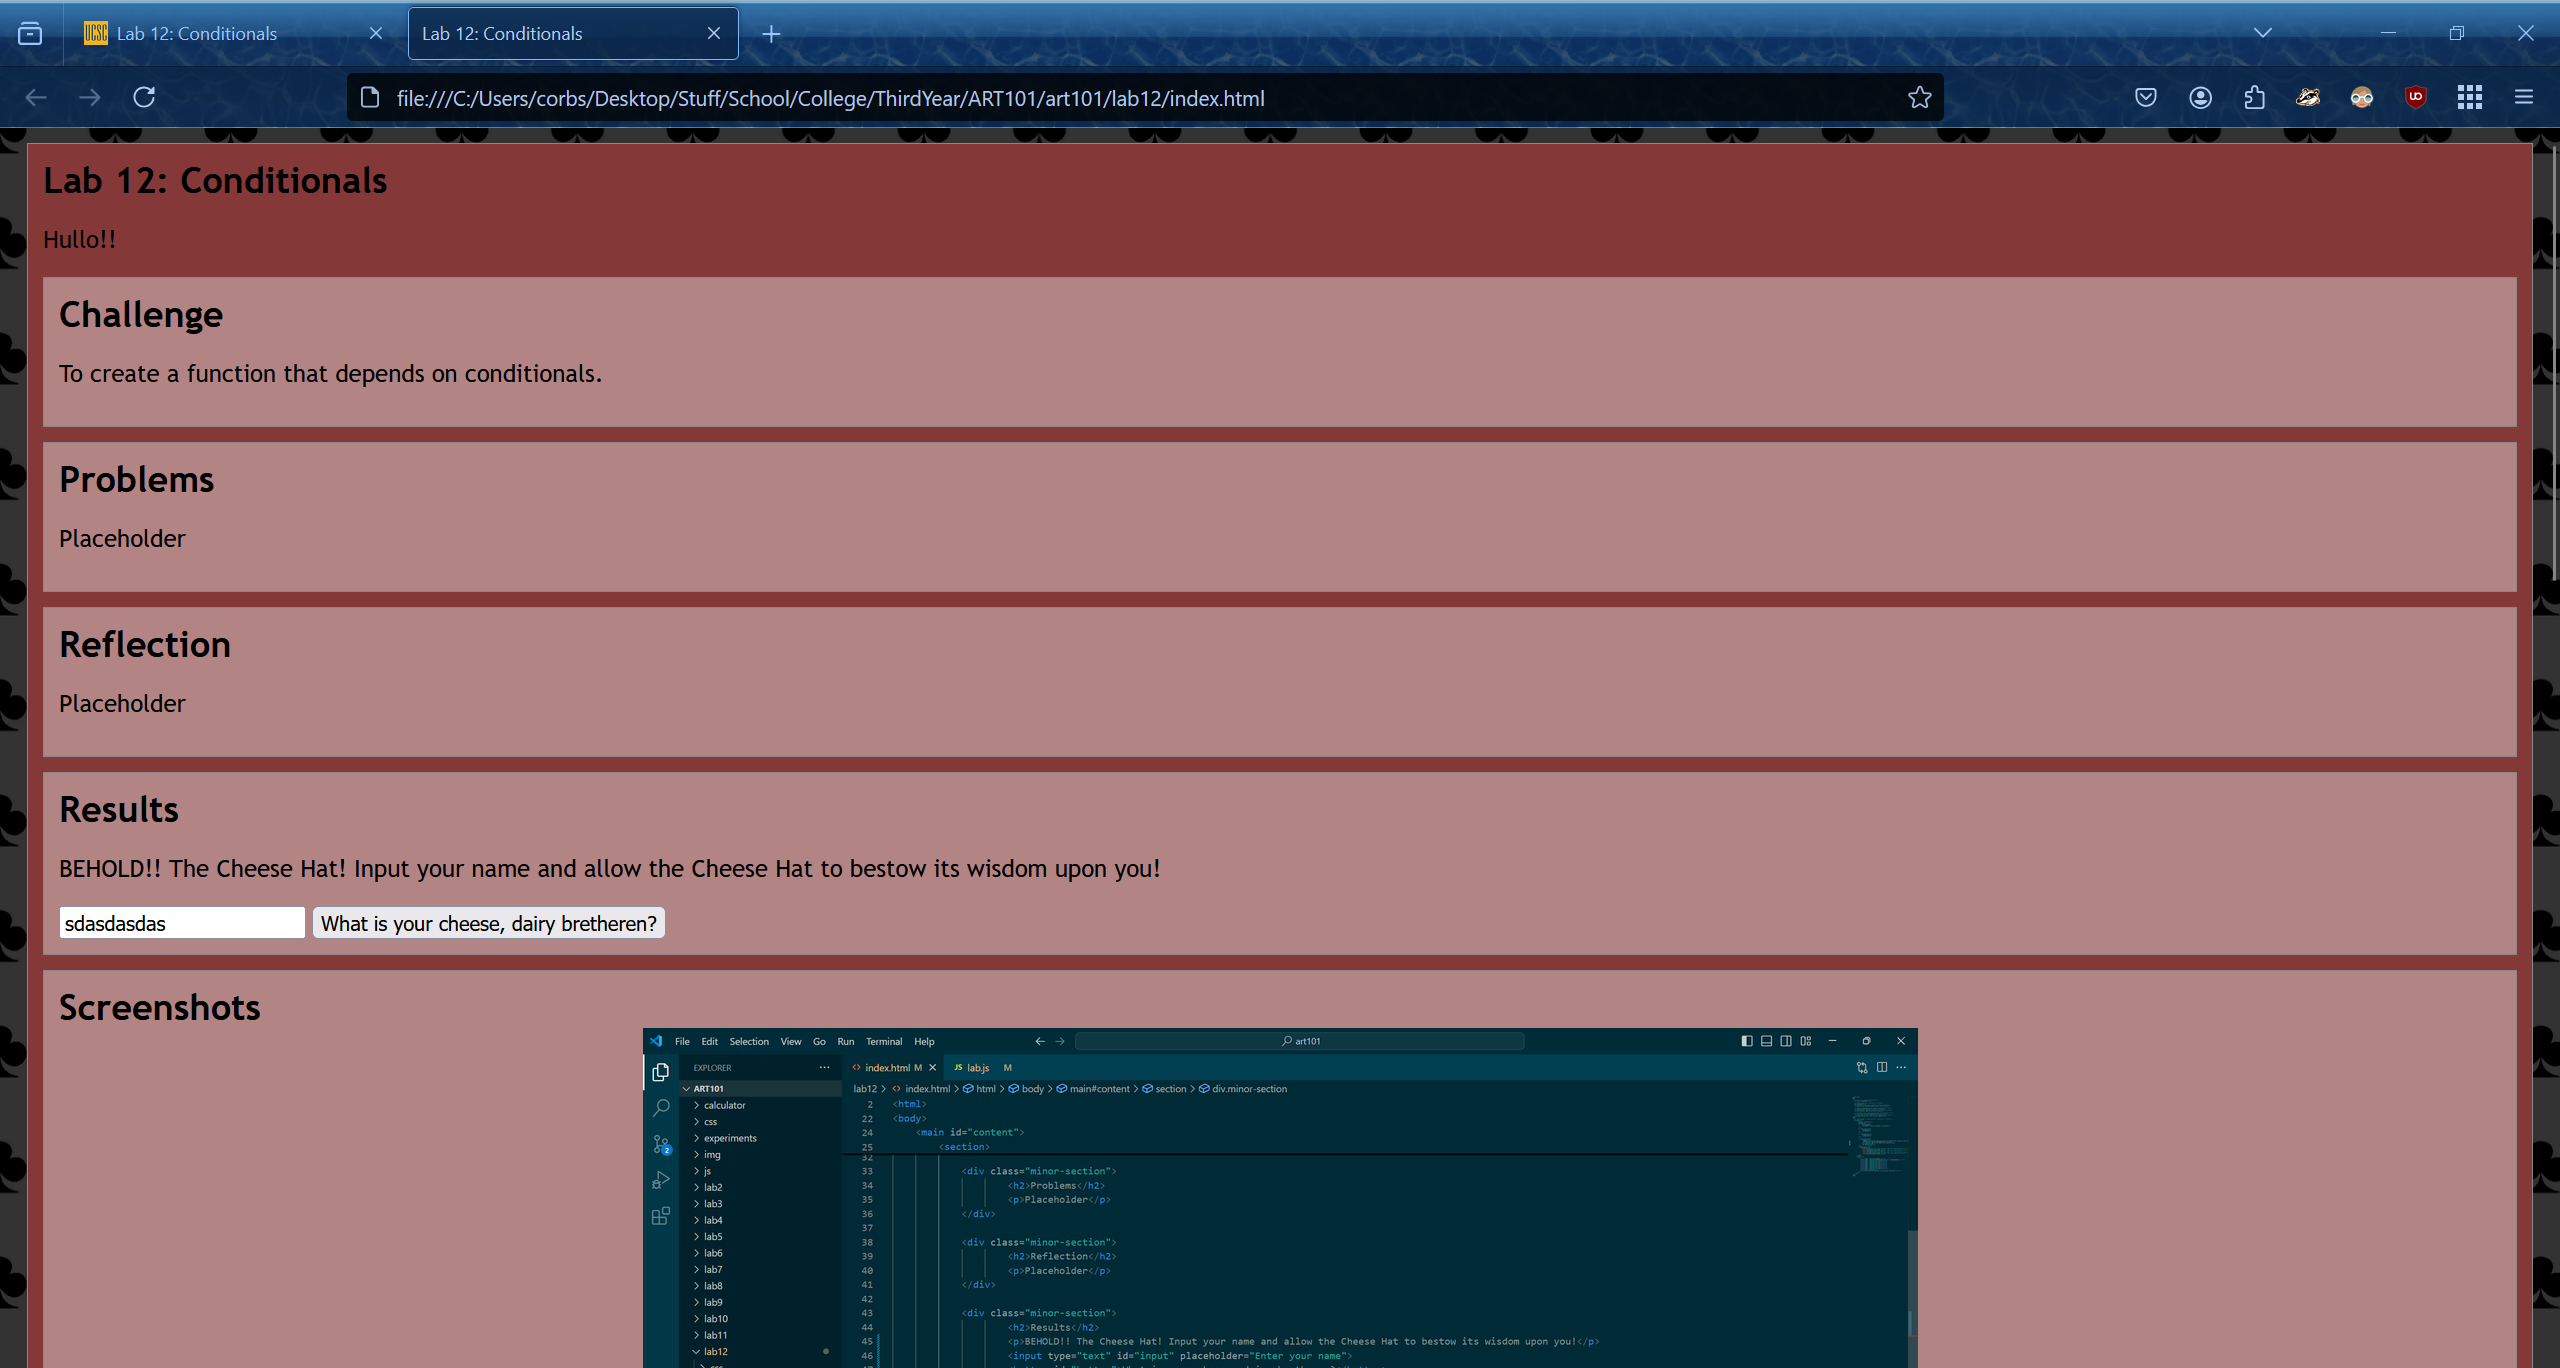
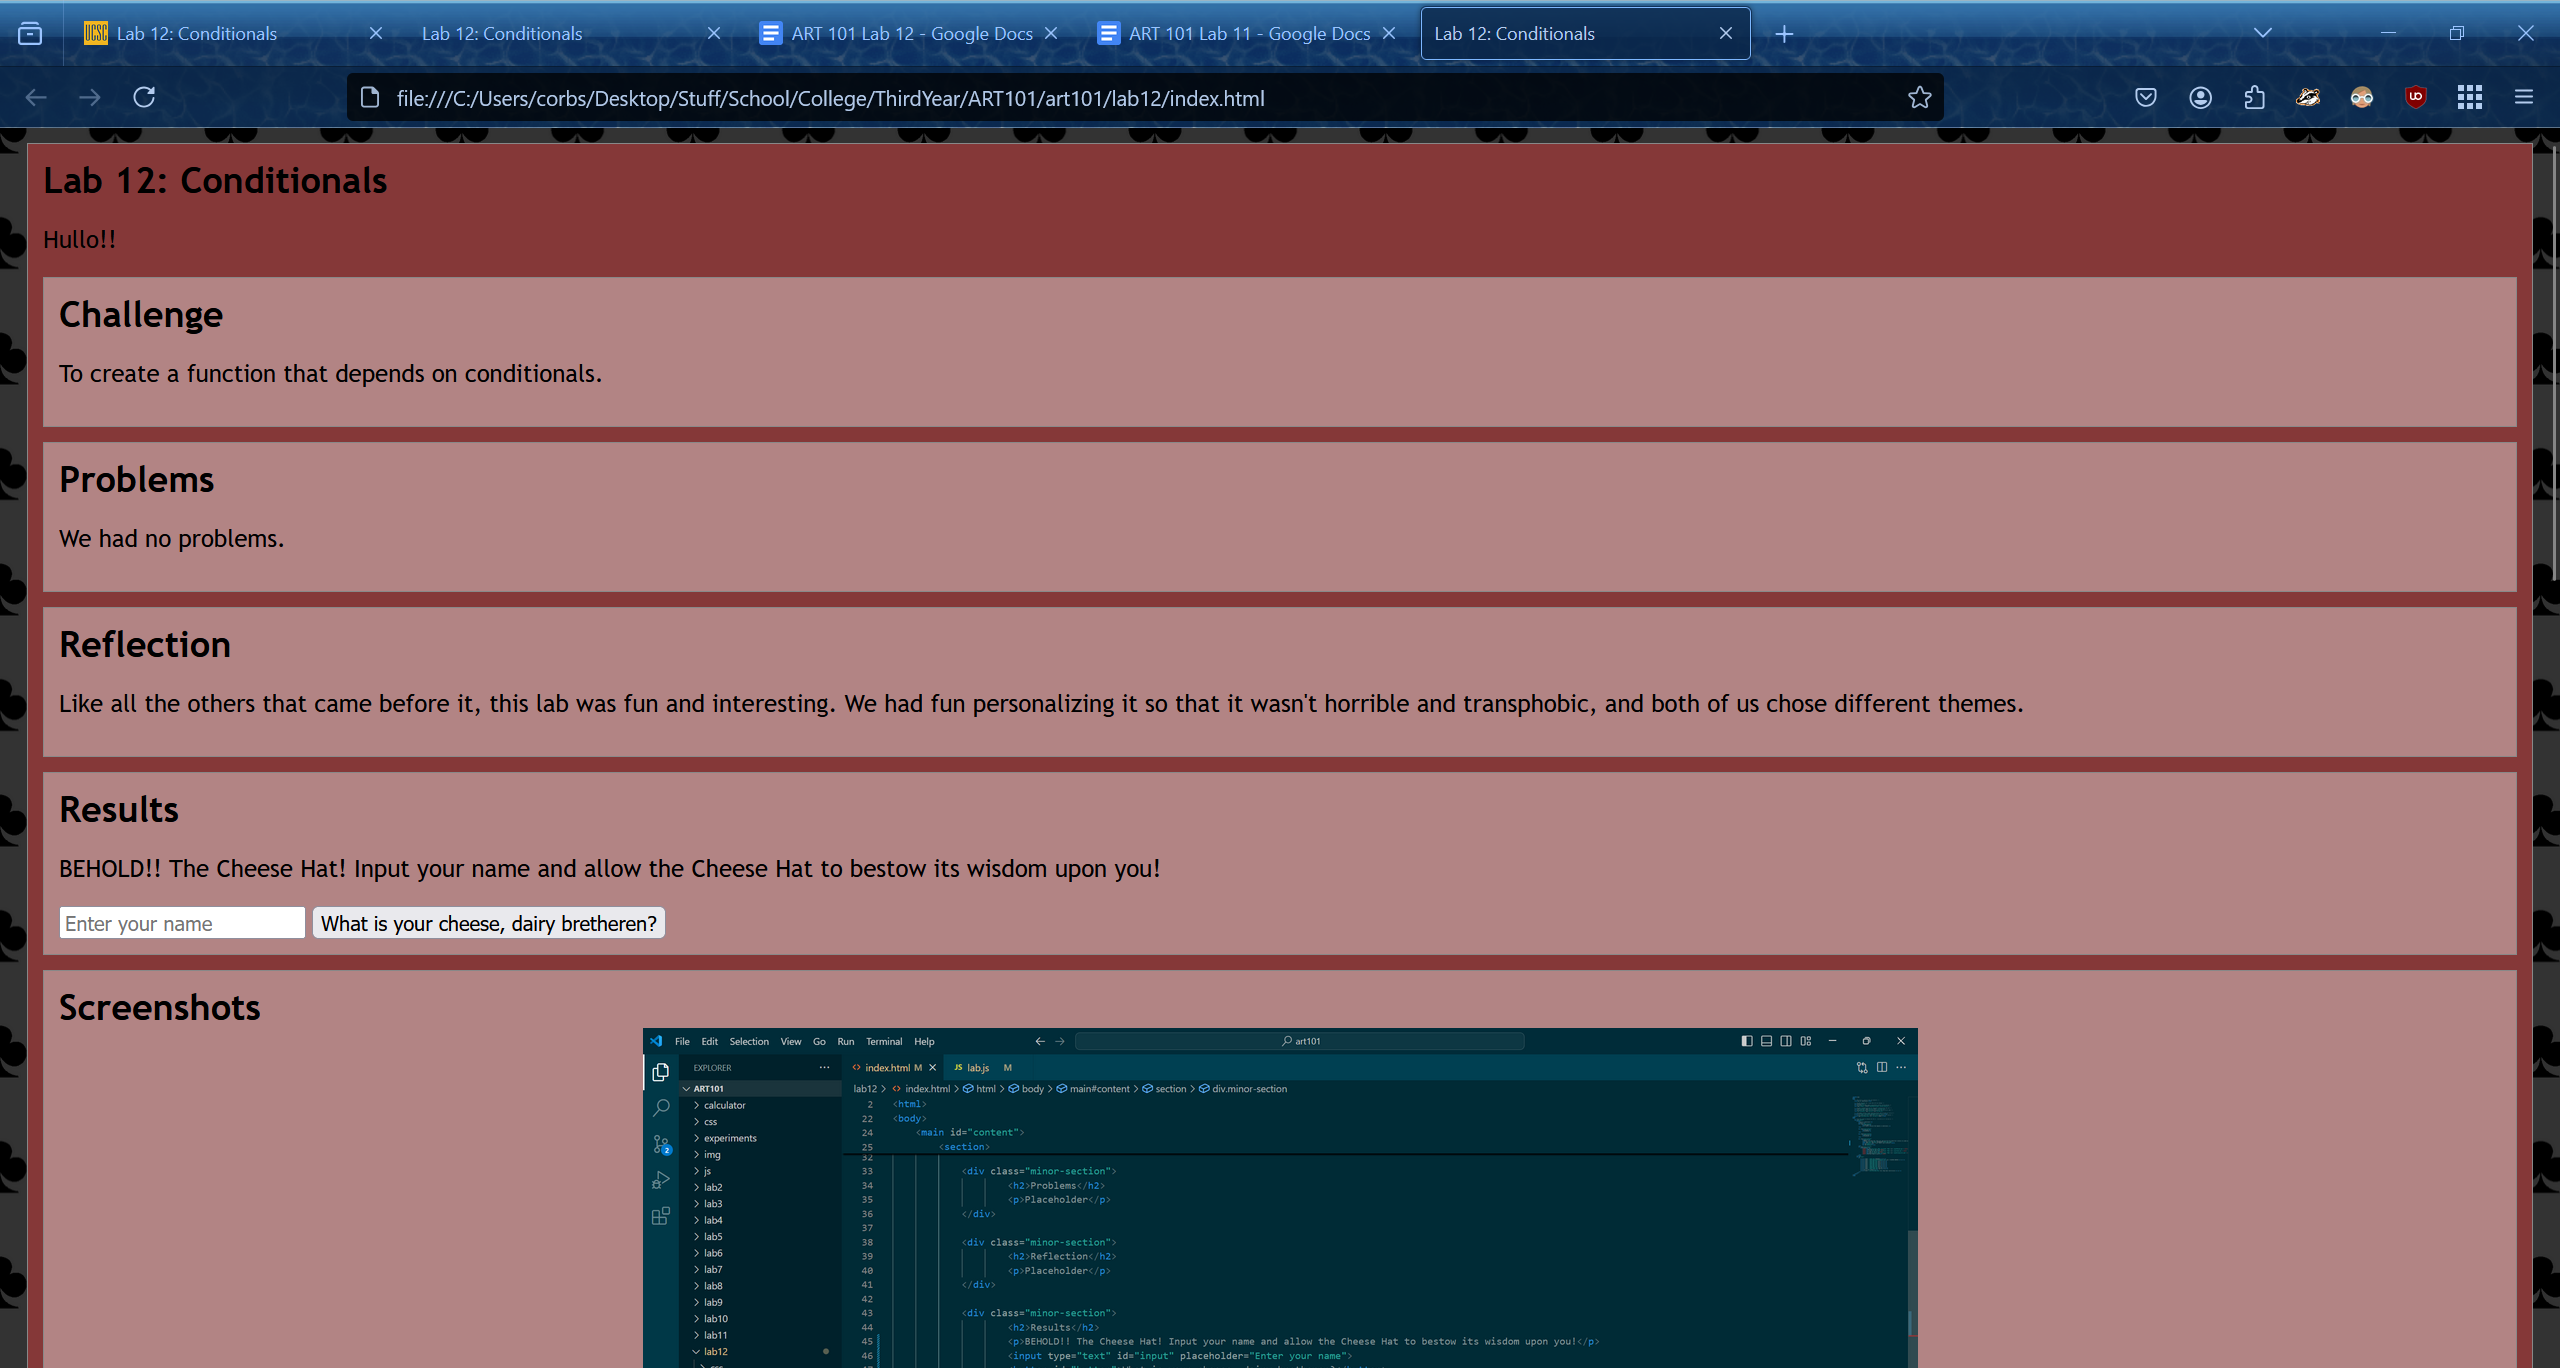
smdsmkdaskjnds

diff --git a/lab12/index.html b/lab12/index.html
@@ -32,12 +32,12 @@
 
 			<div class="minor-section">
 					<h2>Problems</h2>
-					<p>Placeholder</p>
+					<p>We had no problems.</p>
 			</div>
 
 			<div class="minor-section">
 					<h2>Reflection</h2>
-					<p>Placeholder</p>
+					<p>Like all the others that came before it, this lab was fun and interesting. We had fun personalizing it so that it wasn't horrible and transphobic, and both of us chose different themes.</p>
 			</div>
 
 			<div class="minor-section">
